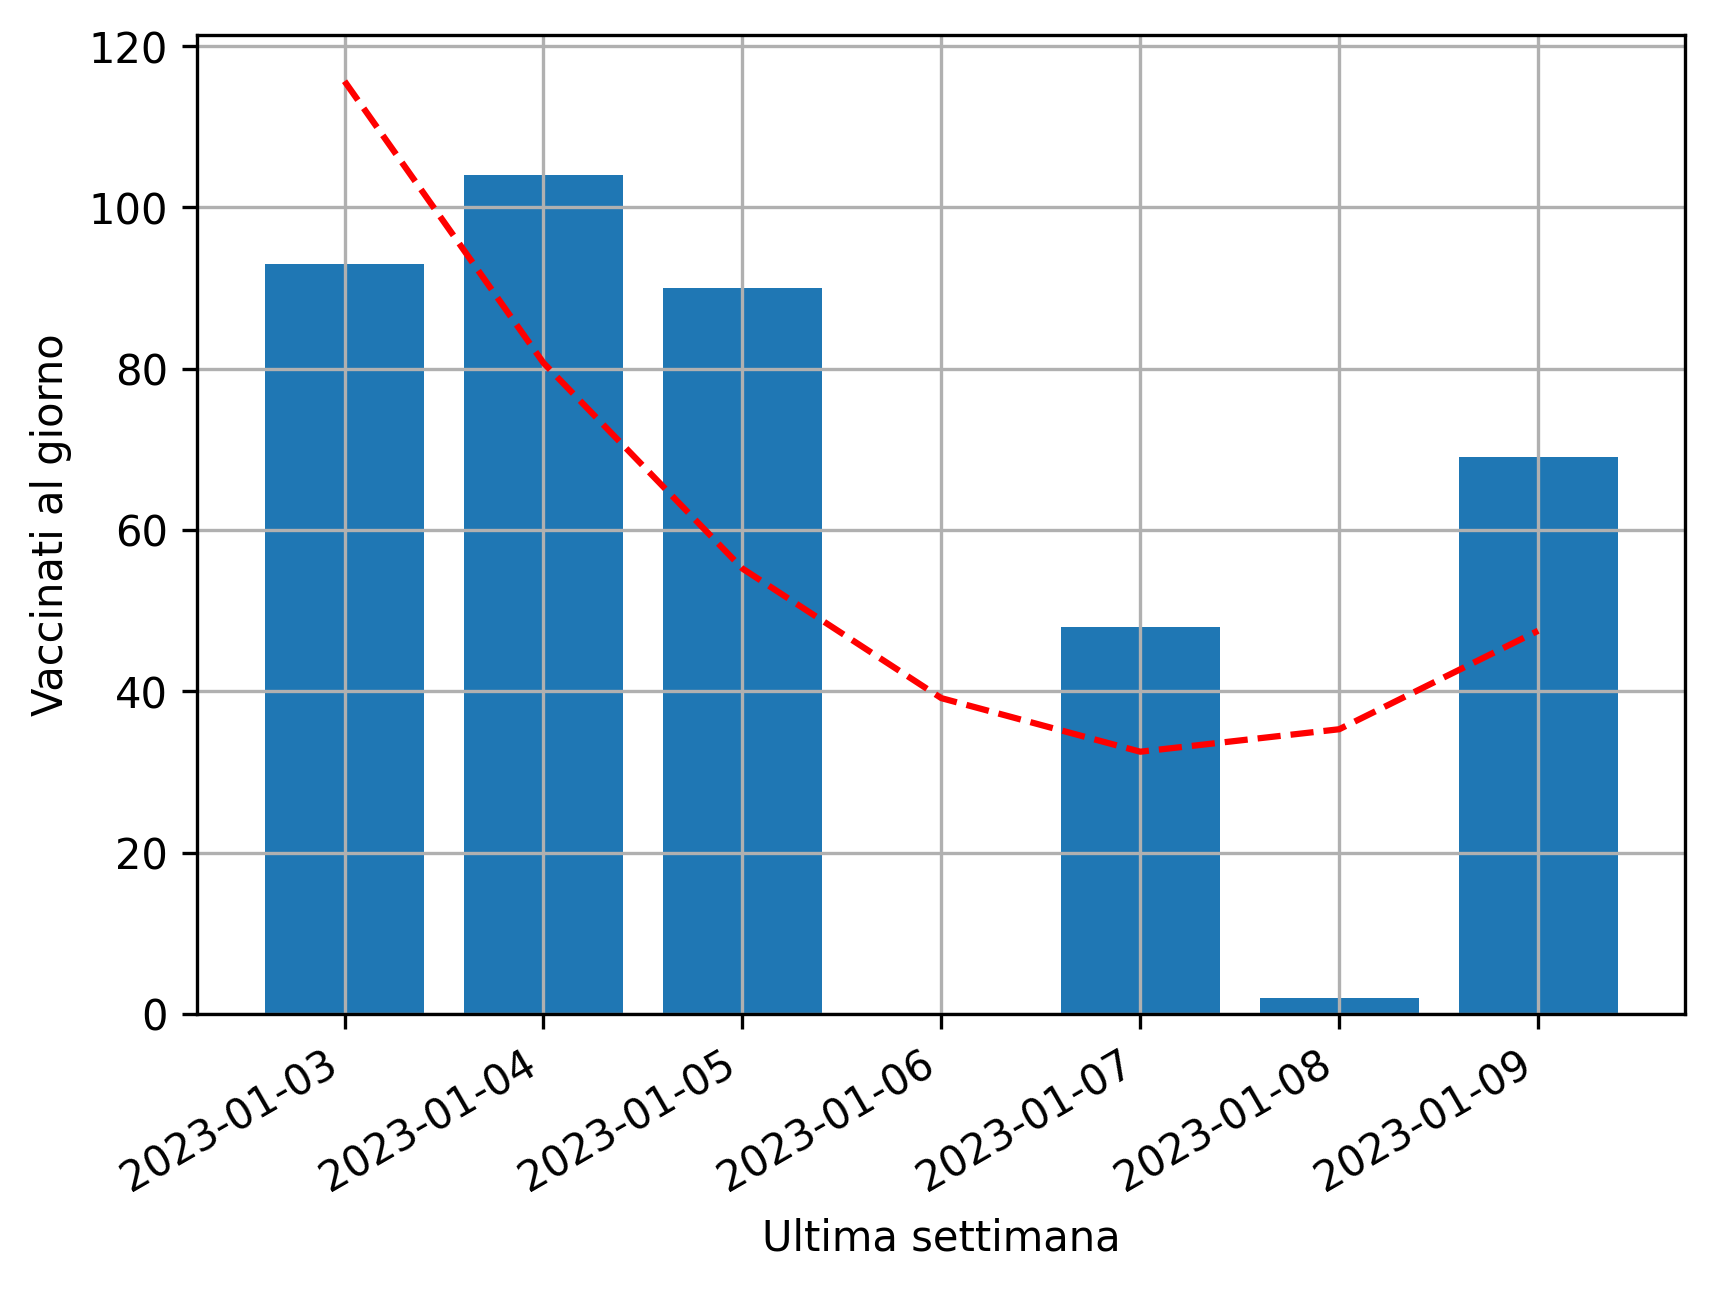
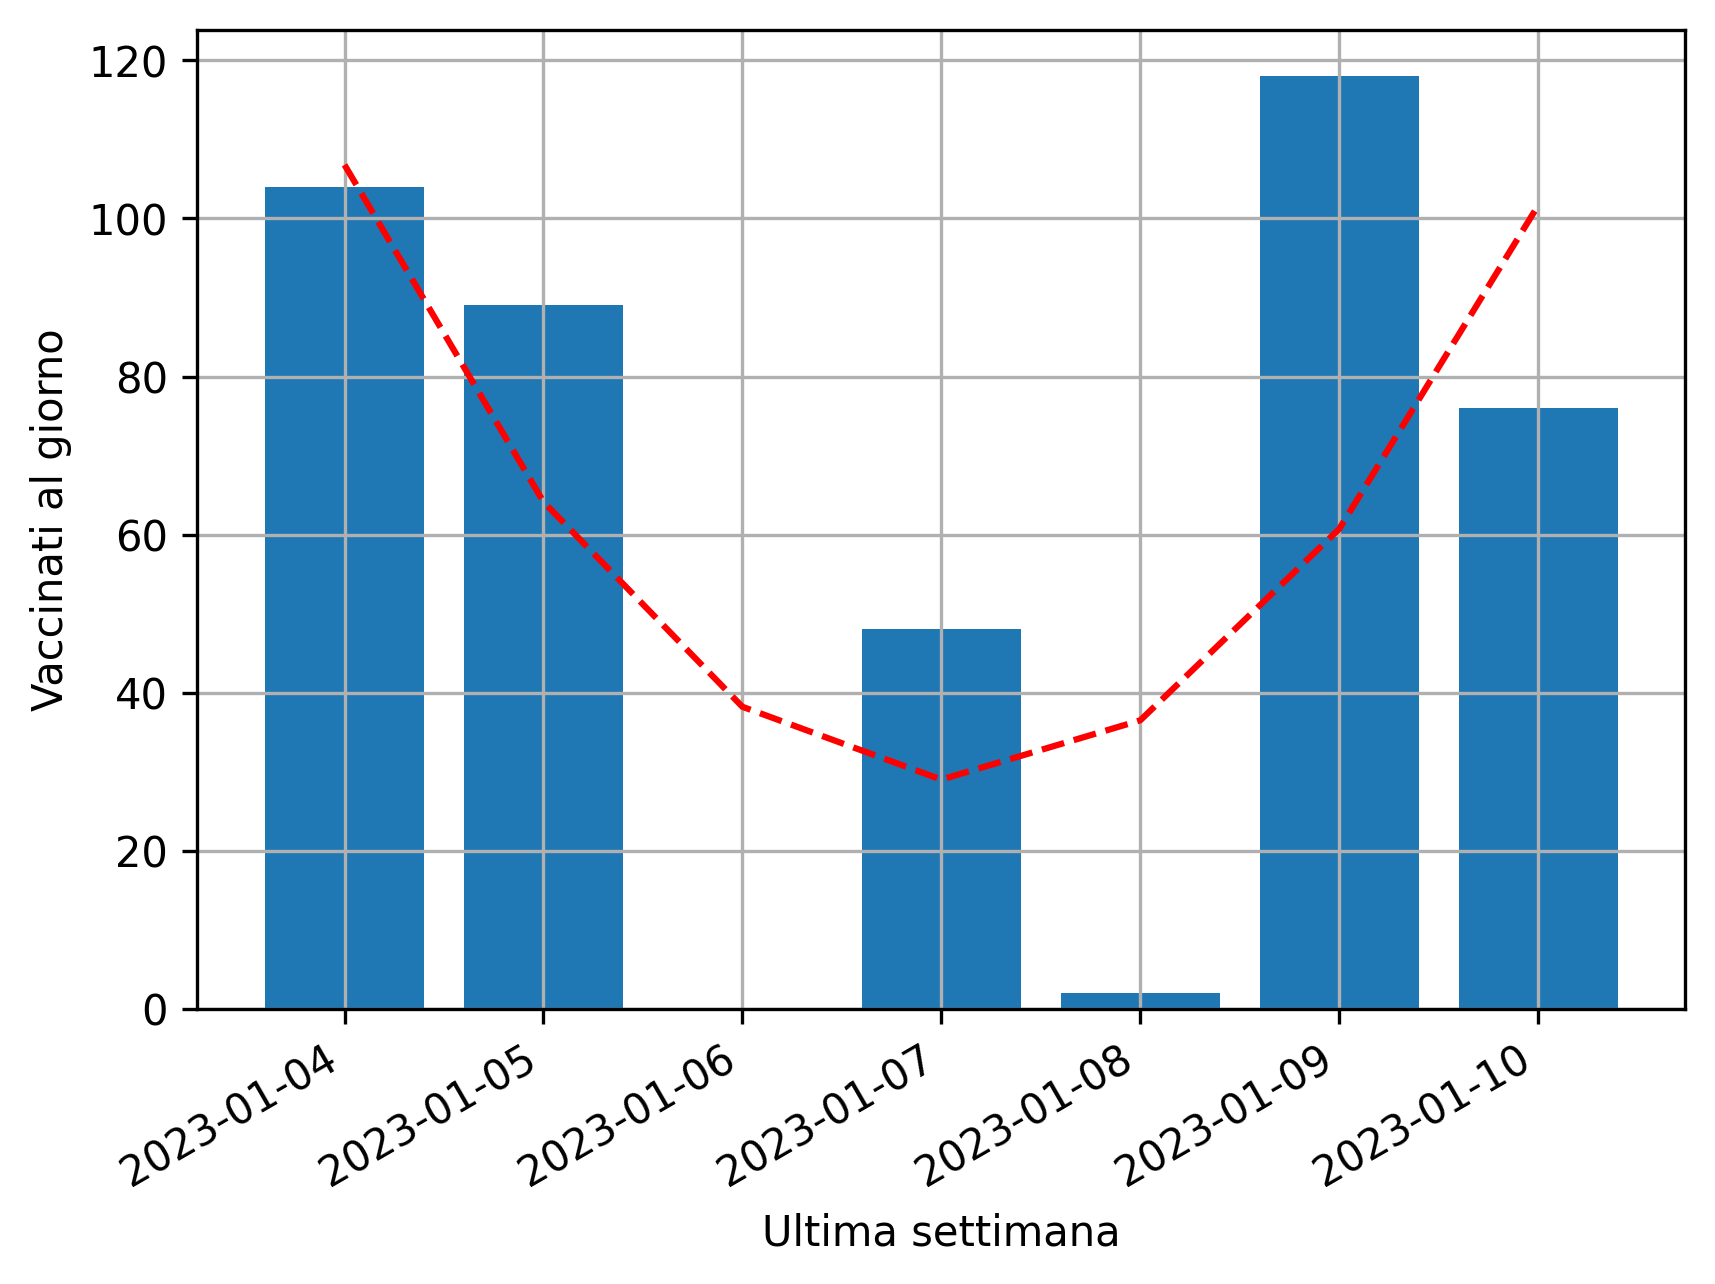
Update dataset and webpage

diff --git a/index.html b/index.html
@@ -71,7 +71,7 @@
 		<div class="text-center">
 			In Italia ci sono <br />
 			<span class="text-big">
-46466839
+46466870
 				persone vaccinate</span> <br />
 			che corrispondono al <br />
 			<span class="text-big">
@@ -80,27 +80,27 @@
 			</span> <br />
 			Ne abbiamo vaccinate <br />
 			<span class="text-big">
-406
+437
 				nell'ultima settimana,</span> <br />
 			con un ritmo di <br />
 			<span class="text-big">
-58
+62
 				vaccinati al giorno.</span> <br />
 			Continuando di questo passo, raggiungeremo l'immunità di gregge il <br />
 			<span class="text-bigger">
-28/12/2108
+23/11/2102
 				<span class="d-none d-sm-inline">
-07:51:43
+10:03:01
 				</span>
 			</span> <br />
 			<span class="text" style="position: relative; top: -5px">ovvero fra</span> <br />
 			<span class="text-bigger" style="position: relative; top: -15px;">
-31399
+29171
 				giorni.
 			</span>
 		</div>
 		<img alt="Grafico vaccinati ultima settimana" src="
-plot.png?build=4eb689752f1fc1f401d07269bb401d157861abb95abe8be8109beb2bf1b5f91c
+plot.png?build=847a7bd34b73728f95855ee2fdfc18ece061084758177f1842e1ad0ba65a9a86
 		" class="img-fluid">
 		
 		<h3 class="mt-2">Frequently Asked Questions</h3>
